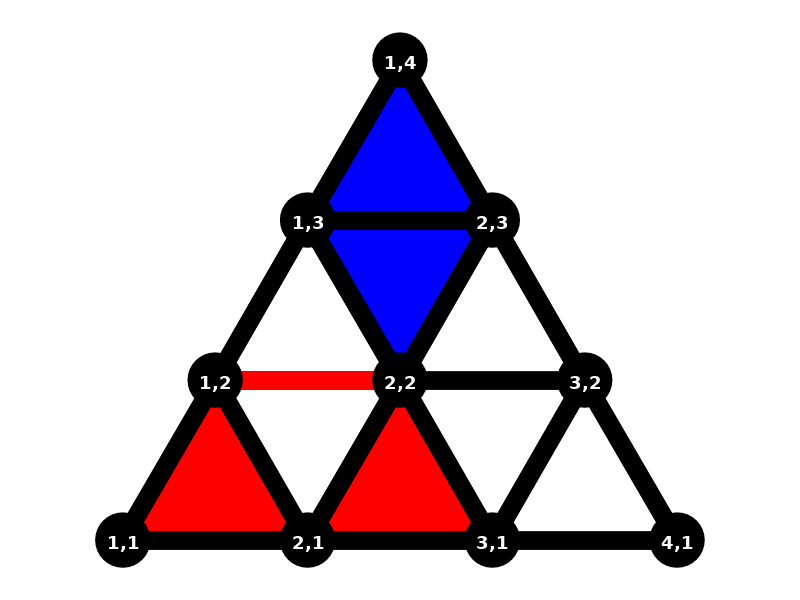
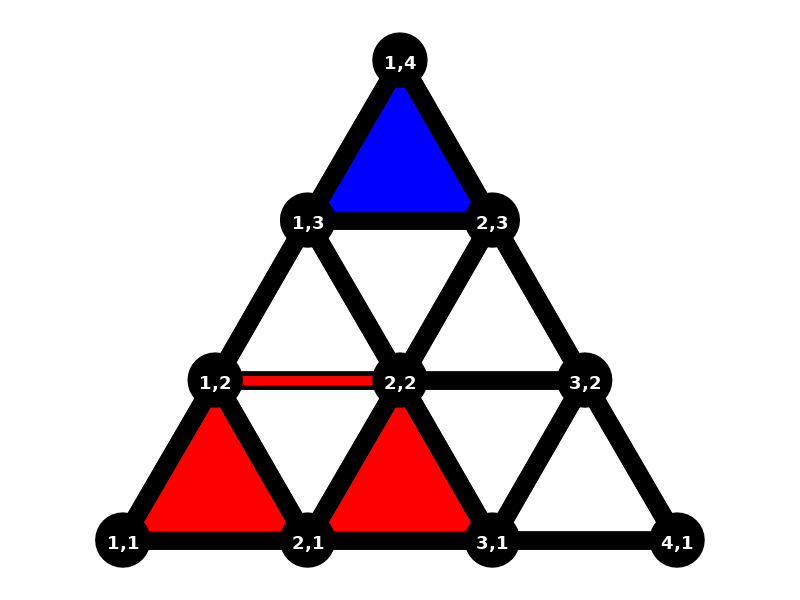
Change specification image

Changed region(s): [[0.4062, 0.36, 0.5938, 0.6], [0.3125, 0.6, 0.4688, 0.66]]

diff --git a/README.md b/README.md
@@ -29,7 +29,7 @@ Hauptbestandteile von FlowerWarsPP.
 Auf diesem Spielbrett ist folgende Situation gezeigt:
 
 - Der rote Spieler hat Blumen auf (`1,1`, `2,1`, `1,2`) und (`2,1`, `3,1`, `2,2`)
-- Der blaue Spieler hat Blumen auf (`2,2`, `1,3`, `2,3`) und (`1,3`, `2,3`, `1,4`)
+- Der blaue Spieler hat eine Blume auf (`2,2`, `1,3`, `2,3`)
 - Der rote Spieler hat einen Graben von `1,2` nach `2,2`, mit der seine beiden Blumen verbunden werden
 
 # Zugregeln
